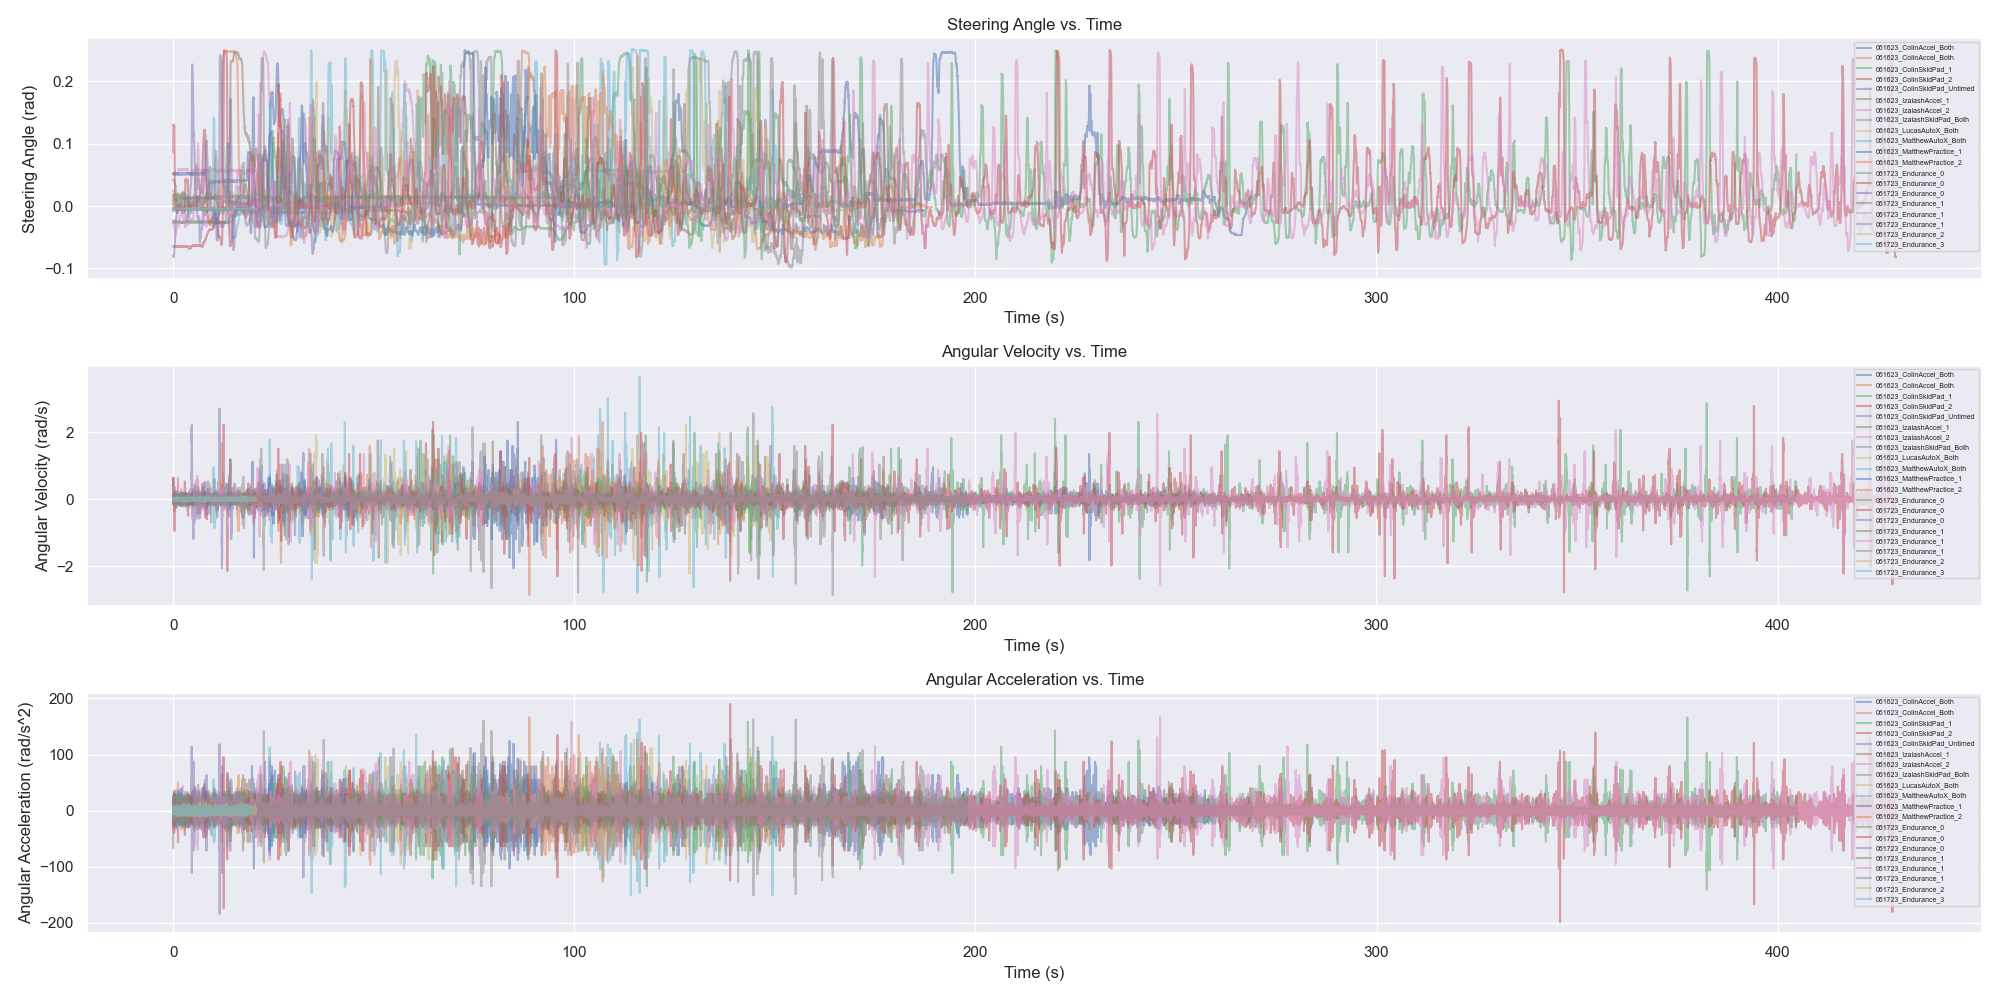
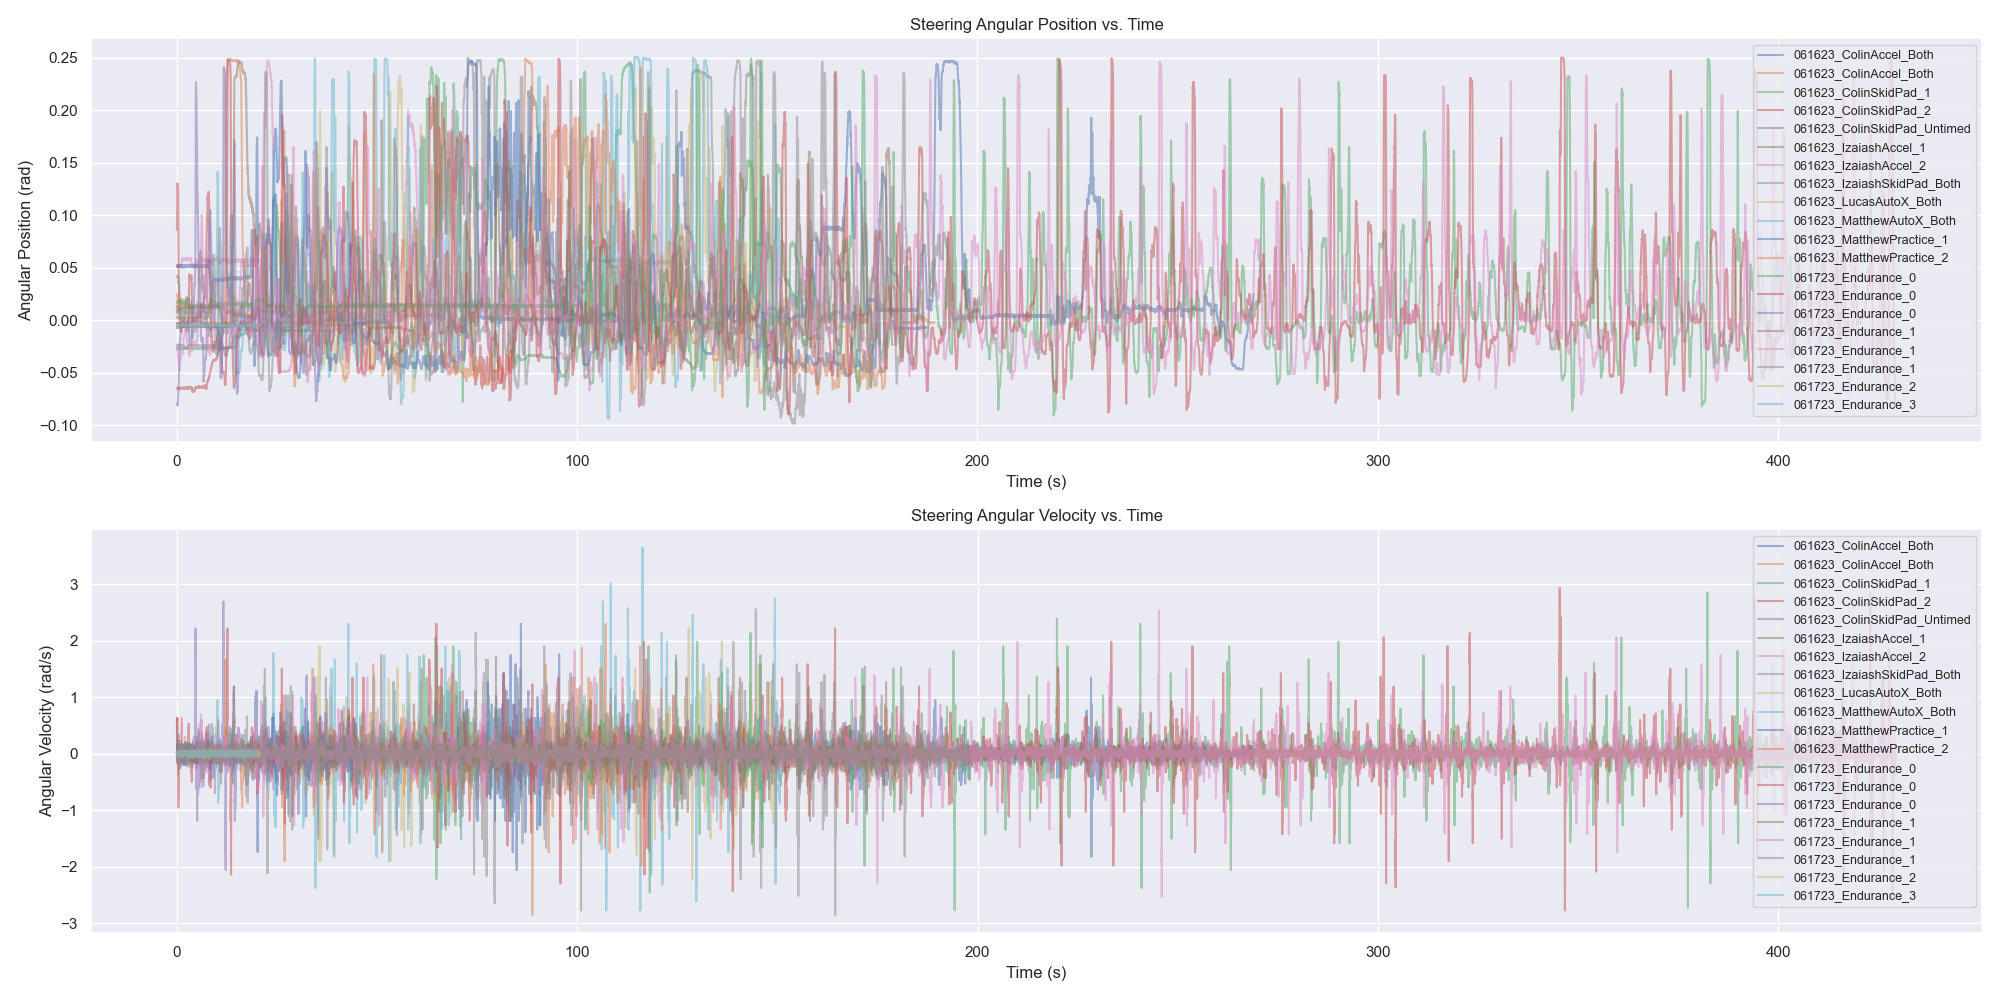
ran

diff --git a/plotter.py b/plotter.py
@@ -13,27 +13,20 @@ sns.set()
 def differentiate(x, y):
   return x[:-1], np.diff(y) / np.diff(x)
 
-fig1, axs1 = plt.subplots(nrows=3, figsize=(20, 10))
-axs1[0].set_title(f'Steering Angle vs. Time')
+fig1, axs1 = plt.subplots(nrows=2, figsize=(20, 10))
+axs1[0].set_title(f'Steering Angular Position vs. Time')
 axs1[0].set_xlabel('Time (s)')
-axs1[0].set_ylabel('Steering Angle (rad)')
-axs1[1].set_title(f'Angular Velocity vs. Time')
+axs1[0].set_ylabel('Angular Position (rad)')
+axs1[1].set_title(f'Steering Angular Velocity vs. Time')
 axs1[1].set_xlabel('Time (s)')
 axs1[1].set_ylabel('Angular Velocity (rad/s)')
-axs1[2].set_title(f'Angular Acceleration vs. Time')
-axs1[2].set_xlabel('Time (s)')
-axs1[2].set_ylabel('Angular Acceleration (rad/s^2)')
 
-fig2, axs2 = plt.subplots(nrows=2, figsize=(10, 10))
-axs2[0].set_title(f'Angular Velocity Distribution')
-axs2[0].set_xlabel('Angular Velocity (rad/s)')
-axs2[0].set_xlim(right=0.9)
-axs2[1].set_title(f'Angular Acceleration Distribution')
-axs2[1].set_xlabel('Angular Acceleration (rad/s^2)')
-axs2[1].set_xlim(right=50.0)
+fig2, axs2 = plt.subplots(figsize=(10, 8))
+axs2.set_title(f'Angular Velocity Distribution')
+axs2.set_xlabel('Angular Velocity (rad/s)')
+axs2.set_xlim(right=0.9)
 
 vels = []
-accels = []
 labels = []
 
 for csv in sorted(os.listdir(CSV_DIR)):
@@ -48,7 +41,7 @@ for csv in sorted(os.listdir(CSV_DIR)):
     time = (times[i] - times[i][0]) / 1e7
     name = csv.replace('.csv', '')
 
-    # steering angle
+    # angular pos
     position = positions[i]
     axs1[0].plot(time, position, alpha=0.5, label=name)
 
@@ -56,27 +49,17 @@ for csv in sorted(os.listdir(CSV_DIR)):
     time, vel = differentiate(time, position)
     axs1[1].plot(time, vel, alpha=0.5, label=name)
 
-    # angular accel
-    time, accel = differentiate(time, vel)
-    axs1[2].plot(time, accel, alpha=0.5, label=name)
-
     vels.append(vel)
-    accels.append(accel)
     labels.append(name)
 
-axs2[0].hist([np.abs(vel) for vel in vels], bins=100, stacked=True, edgecolor='none', label=labels)
-axs2[1].hist([np.abs(accel) for accel in accels], bins=100, stacked=True, edgecolor='none', label=labels)
+axs2.hist([np.abs(vel) for vel in vels], bins=100, stacked=True, edgecolor='none', label=labels)
 
 vel_percentile = np.percentile(np.concatenate(vels), PERCENTILE)
-accel_percentile = np.percentile(np.concatenate(accels), PERCENTILE)
-axs2[0].axvline(x=vel_percentile, linestyle='--', label=f'99th Percentile: {round(vel_percentile, 4)} rad/s')
-axs2[1].axvline(x=accel_percentile, linestyle='--', label=f'99th Percentile: {round(accel_percentile, 4)} rad/s^2')
+axs2.axvline(x=vel_percentile, linestyle='--', label=f'99th Percentile: {round(vel_percentile, 4)} rad/s')
 
-axs1[0].legend(loc='upper right', fontsize='5')
-axs1[1].legend(loc='upper right', fontsize='5')
-axs1[2].legend(loc='upper right', fontsize='5')
-axs2[0].legend(loc='upper right', fontsize='8')
-axs2[1].legend(loc='upper right', fontsize='8')
+axs1[0].legend(loc='upper right', fontsize='9')
+axs1[1].legend(loc='upper right', fontsize='9')
+axs2.legend(loc='upper right', fontsize='11')
 
 fig1.tight_layout()
 fig1.savefig('steering_pot.png')
